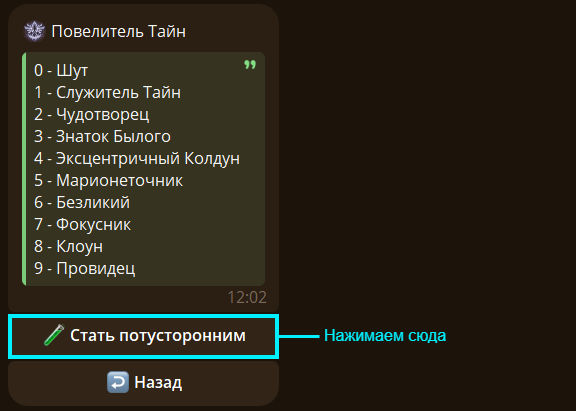
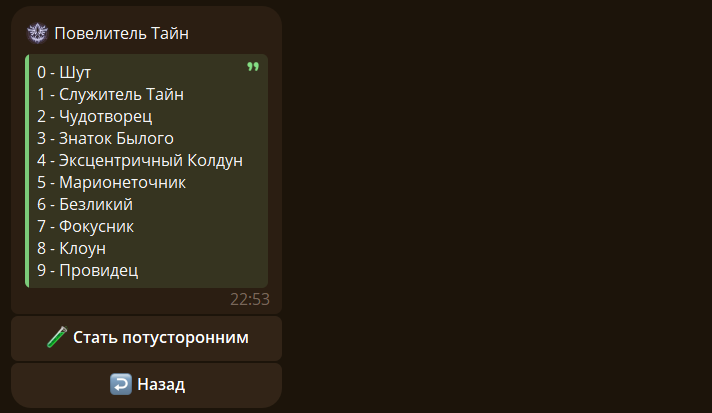
version 0.5.1
fetat: добавлен гайд по WIki модулю, перенесен в раздел Потусторонних

Добавлено:
 - гайд по модулю WIki

Changed region(s): [[0.0, 0.0584, 0.7812, 0.8759], [0.1562, 0.9051, 0.3125, 0.9635]]

diff --git a/sourse/beyonder/wiki.md b/sourse/beyonder/wiki.md
@@ -1,0 +1,41 @@
+
+
+## 🧪 Пути {#path}
+
+Чтобы получить список всех путей используйте команду `/path`:
+
+![Земные пути](./img/paths.png)
+
+Выбираем путь и нажимаем на соотвествующую кнопку:
+
+![Путь Шута](./img/path.png)
+
+## 🪐 Великие Древние {#ga}
+
+> ❗Сокращение ВД - Великий Древний
+
+Чтобы получить список всех ВД используйте команду `/ga`:
+
+![Земные ВД](./img/gas.png)
+
+Выбираем ВД и нажимаем на соотвествующую кнопку:
+
+![ВД - Повелитель Тайн](./img/ga.png)
+
+Если нажать на один из путей появится знакомая менюшка:
+
+![Путь Шута](./img/path.png)
+
+> ❗Если путей у ВД один, то откроется сразу менюшка пути.
+
+## 🔍 Поиск {#search}
+
+Чтобы найти путь используйте команду `/path поисковой запрос`, вставив запрос в нужное место:
+
+![Найденные пути](./img/path_search.png)
+
+> ❗Бот ищет не только по названию пути, но и по названиям последовательности.
+
+Чтобы найти путь используйте команду `/ga поисковой запрос`, вставив запрос в нужное место:
+
+![Найденные ВД](./img/ga_search.png)

diff --git a/sourse/beyonder/base.md b/sourse/beyonder/base.md
@@ -11,11 +11,11 @@
 
 Выбираем путь и нажимаем на кнопку с названием Пути:
 
-![Нажимаем на кнопку](./img/path.png)
+![Нажимаем на кнопку](./img/drink.png)
 
 После нажатия кнопки получаем примерно такое сообщение: 
 
-![Становимся потусторонним)](./img/drink.png)
+![Становимся потусторонним)](./img/drink2.png)
 
 Поздравляю, мы стали потусторонним 9 последовательности.
 

diff --git a/sourse/start.md b/sourse/start.md
@@ -11,4 +11,4 @@
 ## ❔Что делать дальше {#next}
    - [Проверитьте сколько дней осталось](./beyonder/base.md#upseq)
    - [Войдите в организацию или создайте свою](./organ/start.md)
-   - [Посмотреть названия ВД и путей](./wiki/base.md)
+   - [Посмотреть названия ВД и путей](./beyonder/wiki.md)

diff --git a/sourse/index.md b/sourse/index.md
@@ -15,4 +15,4 @@
    - [Продвигаться по последовательностям](./beyonder/base.md#upseq)
    - [Войти в организацию](./organ/start.md#login)
    - [Cоздать организацию](./organ/start.md#create)
-   - [Посмотреть названия ВД и путей](./wiki/base.md)
+   - [Посмотреть названия ВД и путей](./beyonder/wiki.md)
